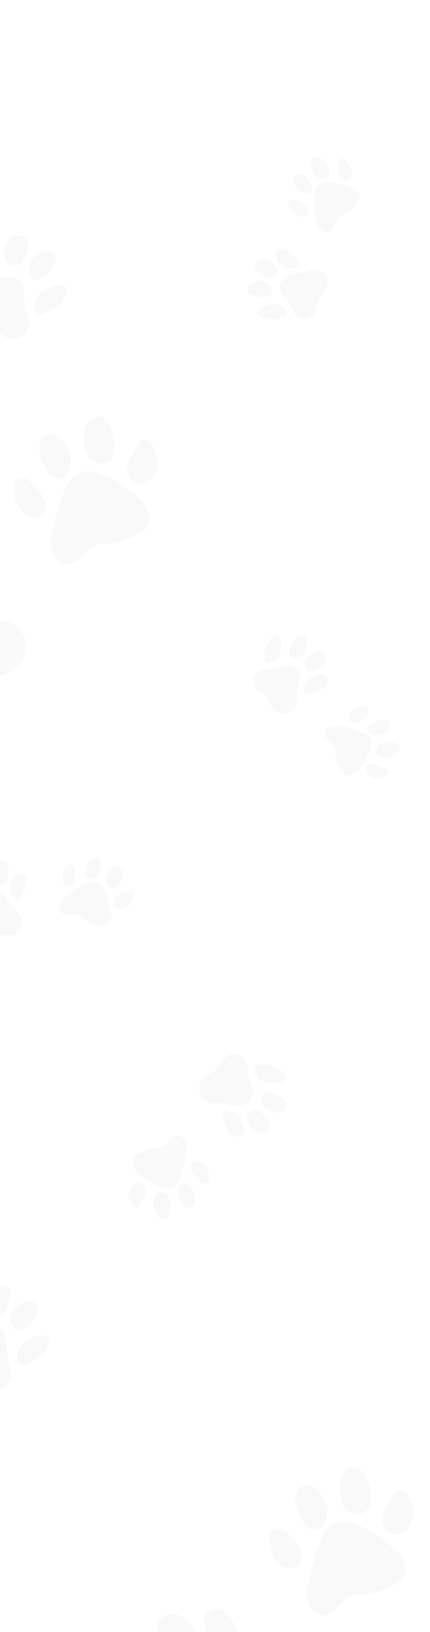
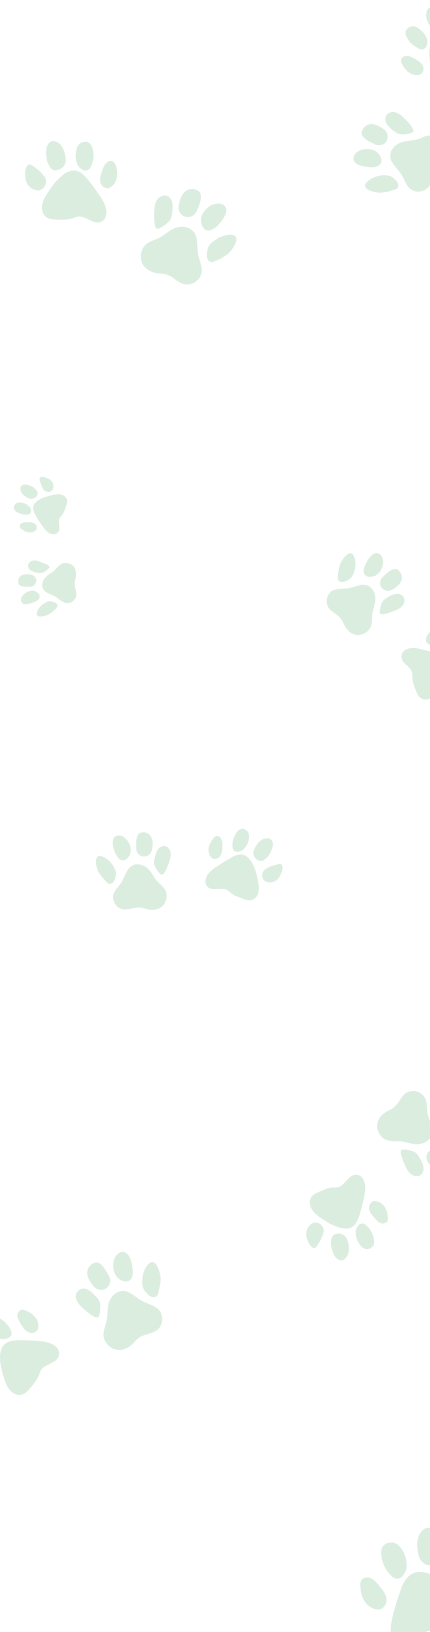
styling update

diff --git a/client/src/components/Footer.tsx b/client/src/components/Footer.tsx
@@ -1,34 +1,58 @@
-import { footLogo, waterMarkMobile, members } from '../constants/footer'
-import { FaGithub, FaLinkedin } from 'react-icons/fa'
+import { footLogo, waterMarkMobile, members, figmaLogo, neonLogo } from '../constants/footer'
+import { FaGithub, FaLinkedin, FaDocker, FaReact, FaNodeJs } from 'react-icons/fa'
+import { SiTypescript, SiTailwindcss } from 'react-icons/si'
+
 
 
 const Footer = () => {
     return (
-        <footer 
-            className='w-full flex flex-col bg-[#0b5a33] px-4 py-8 bg-cover' 
-            style={{backgroundImage: `url(${waterMarkMobile})`}}
+        <footer
+            className='w-full flex flex-col bg-[#BFFFD1] text-[#104C35] px-4 py-12 md:py-20 bg-cover bg-[url]' 
+            
         >
-            <div className="flex justify-center items-center gap-[1.5rem] pb-6">
+            <div className="flex justify-center items-center gap-4 pb-6 md:pb-10">
                 <img src={footLogo} className="h-15 w-auto" />
-                <span className='text-[white] font-bold text-[1.25rem]'>Little Paws</span>
+                <span className='font-bold text-[1.5rem]'>Little Paws</span>
             </div>
-            {members.map(member => (
-                <div className='flex justify-between items-center border border-white/60 py-3 px-5 rounded-xl mb-4'>
-                    <div className='flex flex-col text-white'>
-                        <span className='font-bold'>{member.name}</span>
-                        <span className='text-[.875rem] font-semibold'>{member.role}</span>
+            <div className='sm:flex flex-1 flex-wrap justify-between pb-6'>
+                {members.map(member => (
+                    <div className='group flex justify-between items-center sm:w-[49%] border border-[#104C35]/60 py-3 px-5 rounded-xl mb-4 hover:bg-[#5FED83]/15 hover:border-[#5FED83]'>
+                        <div className='flex flex-col'>
+                            <span className='font-bold group-hover:text-[#08872B]'>{member.name}</span>
+                            <span className='text-sm font-semibold pr-7 md:pr-4'>{member.role}</span>
+                        </div>
+                        <div className='flex text-4xl gap-3 sm:pt-10 md:pt-7 lg:pt-0'>
+                            <a href={member.linkedin}><FaLinkedin className='text-[#0A66C2] hover:scale-120 transition-all duration-300'/></a>
+                            <a href={member.github}><FaGithub className='text-black hover:scale-120 transition-all duration-300'/></a>
+                        </div>
                     </div>
-                    <div className='flex text-white text-4xl gap-4'>
-                        <a href={member.linkedin}><FaLinkedin/></a>
-                        <a href={member.github}><FaGithub/></a>
+                ))}
+            </div>
+            <div className='group flex justify-center mt-4 mb-6'>
+                <a href="https://github.com/chingu-voyages/V57-tier3-team-40" className='flex items-center gap-4'>
+                    <div className='text-5xl'>
+                        <FaGithub className='text-black hover:scale-120 transition-all duration-300'/>
                     </div>
+                    <p className='group-hover:text-[#08872B]'>Github Project Link - September 2025</p>
+                </a>
+            </div>
+            <div className='flex flex-col mb-8 items-center'>
+                <div>
+                    <span className='text-sm font-bold'>Technologies</span>
                 </div>
-            ))}
-            <div className='flex justify-center items-center gap-4 text-white mt-4'>
-                <div className='text-5xl'>
-                    <a href="https://github.com/chingu-voyages/V57-tier3-team-40"><FaGithub/></a>
+                <div className='flex items-center gap-4'>
+                     <SiTypescript className='text-5xl text-[#007ACC]'/> 
+                    <FaReact className='text-[#61DAFB] text-6xl'/> 
+                    <SiTailwindcss className='text-6xl text-[#2298BD]'/> 
+                    <img src={figmaLogo} alt="figma logo" className='h-[3rem] w-auto'/>
+                    <FaNodeJs className='text-6xl text-[#83CD29]'/> 
+                    <img src={neonLogo} alt="neon logo" className='h-[3rem] w-auto'/>
+                    <FaDocker className='text-6xl text-[#0288D1]'/> 
                 </div>
-                <p>Github Project Link - September 2025</p>
+               
+            </div>
+            <div className='text-xs text-center'>
+                <p>Disclaimer: This website and its associated services are provided for demonstrative and educational purposes only.</p>
             </div>
         </footer>
     )

diff --git a/client/src/constants/footer.tsx b/client/src/constants/footer.tsx
@@ -1,13 +1,25 @@
-import footerLogo from '../assets/logo-footer.png'
+import footerLogo from '../assets/footer-logo.png'
 import wmMobile from '../assets/mobile-wm.png'
+import figmaIcon from '../assets/figma.svg'
+import neonIcon from '../assets/neon-logo.svg'
+
 
 export const footLogo = footerLogo
 export const waterMarkMobile = wmMobile
+export const figmaLogo = figmaIcon
+export const neonLogo = neonIcon
 
-export const members = [
+export interface Member {
+    name: string
+    role: string
+    github: string
+    linkedin: string
+}
+
+export const members: Member[] = [
     {
         name: "Valeriy Lysenko",
-        role: "Scrum Master",
+        role: "Scrum Master / Web Developer",
         github: "https://github.com/Valeriusdev",
         linkedin: "https://www.linkedin.com/in/valeriylysenko"
     },
@@ -24,7 +36,7 @@ export const members = [
         linkedin: "https://www.linkedin.com/in/rigo0101"
     },
     {
-        name: "Aigul Yermagambetova",
+        name: "Aigul Y",
         role: "Web Developer",
         github: "https://github.com/aigul-ermak",
         linkedin: "https://www.linkedin.com/in/aigul-ermak"

diff --git a/client/src/App.tsx b/client/src/App.tsx
@@ -2,10 +2,10 @@ import Footer from "./components/Footer"
 
 const App = () => {
   return (
-    <>
+    <main>
       <div className="text-4xl">Hello Team</div>
       <Footer/>
-    </>
+    </main>
   )
 }
 

diff --git a/client/src/index.css b/client/src/index.css
@@ -4,3 +4,9 @@
 body {
     font-family: "Montserrat", sans-serif
 }
+
+/* Footer */
+
+.green-text:hover {
+    color: #08872b;
+}
